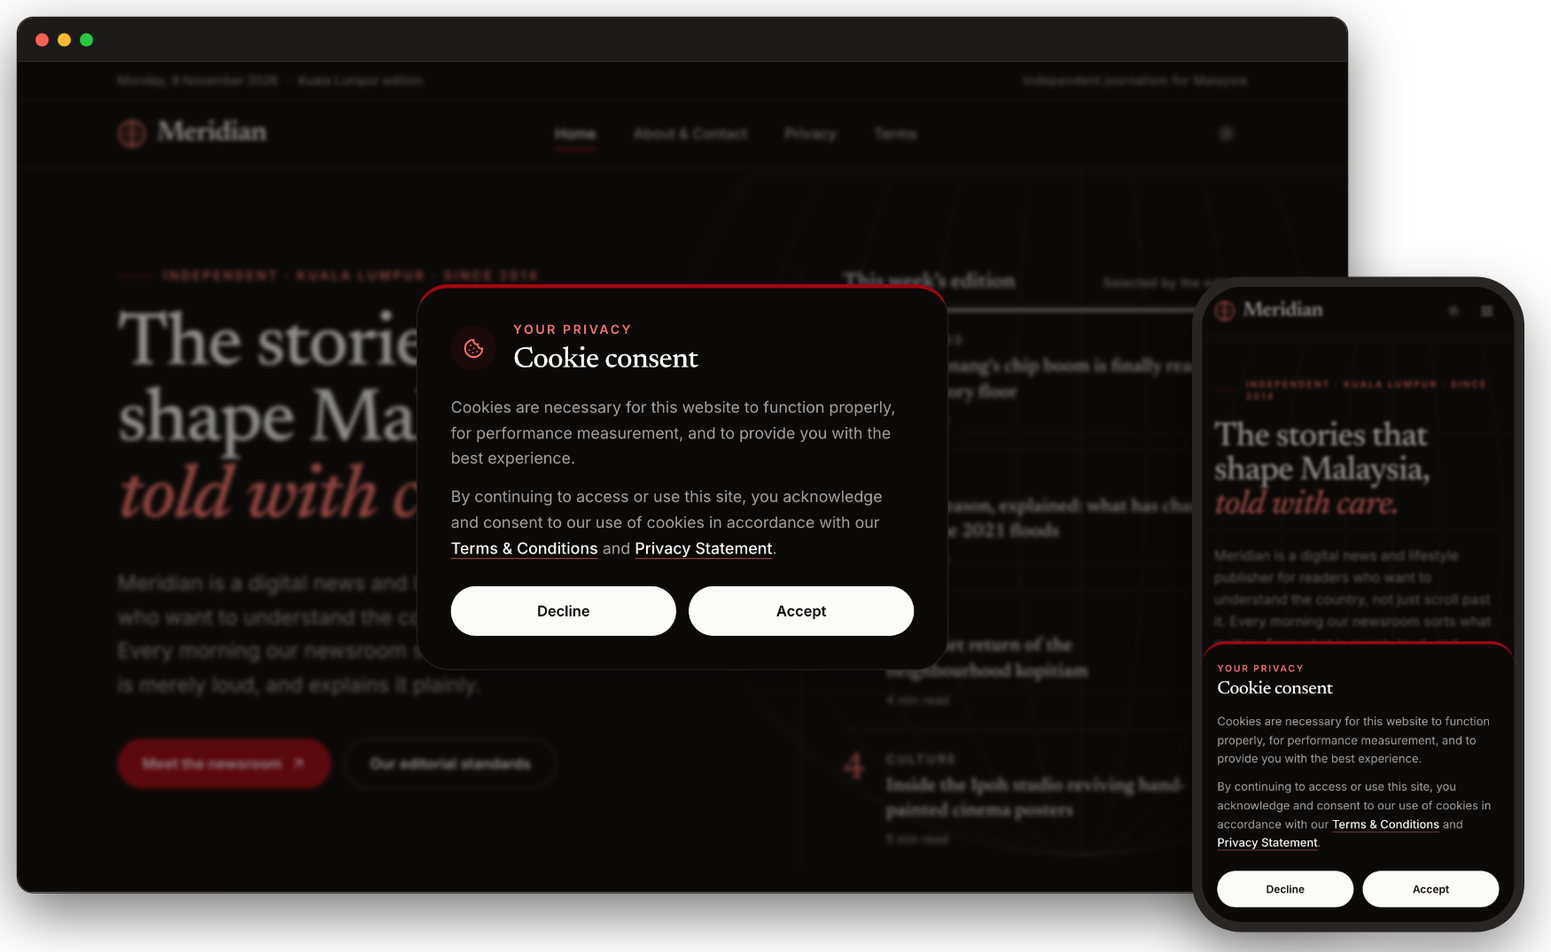
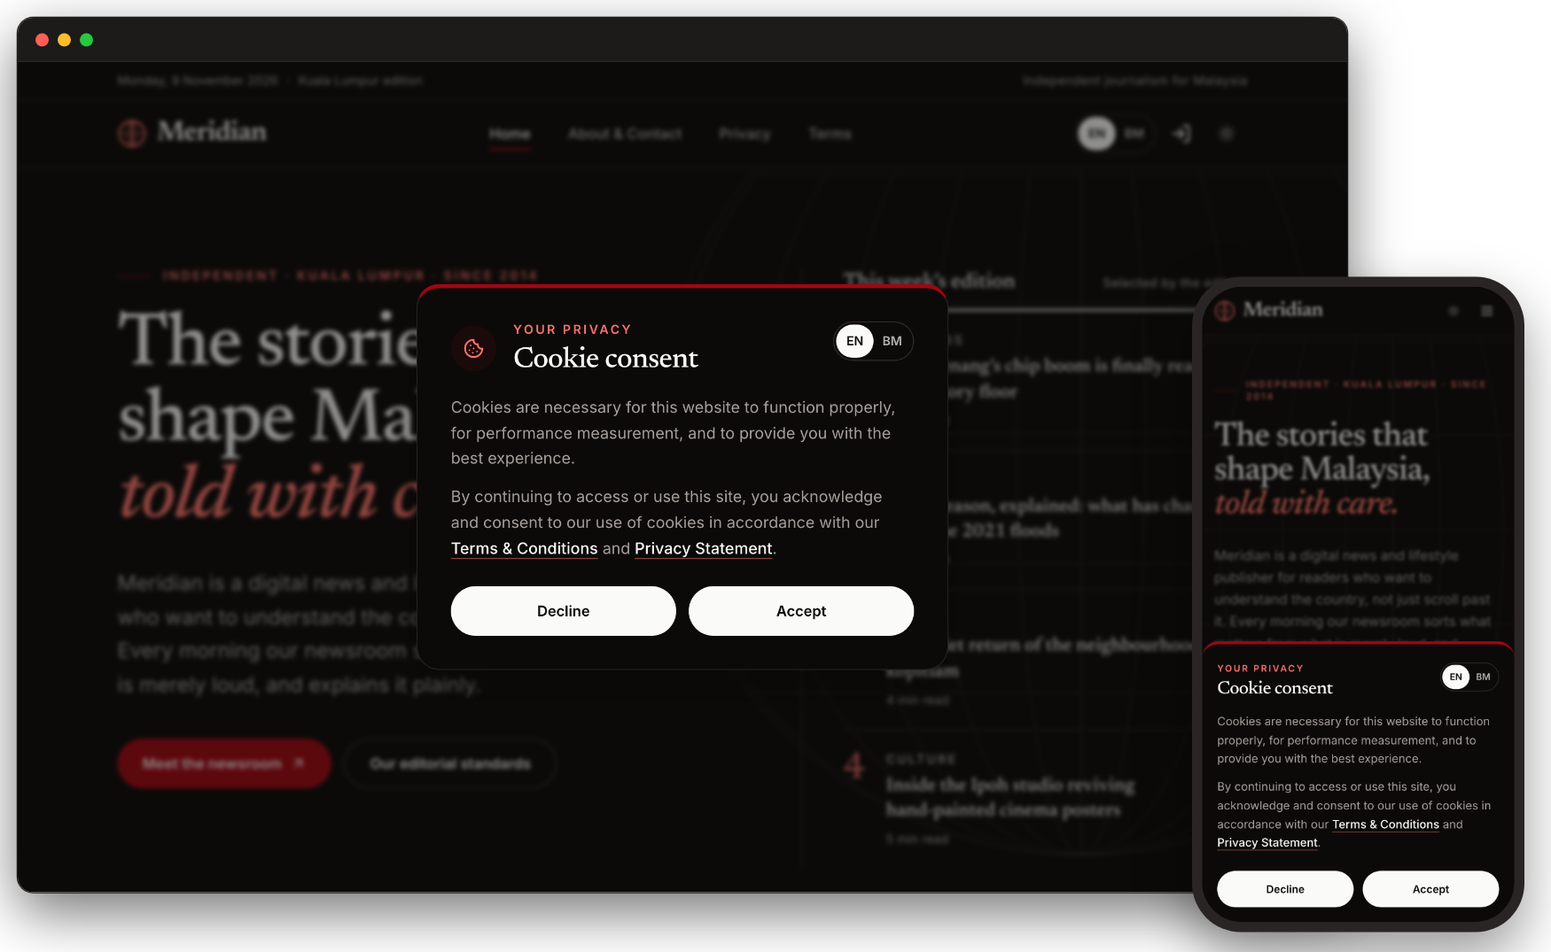
Bring the README and its pictures up to date with main
Adds the EN/BM switch, the new test counts and moved line links.
Retakes the hero, admin overview and story GIF on the current site.

diff --git a/README.md b/README.md
@@ -21,8 +21,8 @@
   <img alt="Inertia 3" src="https://img.shields.io/badge/Inertia-3-9553E9?logo=inertia&logoColor=white">
   <img alt="React 19" src="https://img.shields.io/badge/React-19-61DAFB?logo=react&logoColor=black">
   <img alt="MySQL 8.4" src="https://img.shields.io/badge/MySQL-8.4-4479A1?logo=mysql&logoColor=white">
-  <img alt="Pest: 304 tests" src="https://img.shields.io/badge/Pest-304%20tests-F28D1A">
-  <img alt="Playwright: 152 tests" src="https://img.shields.io/badge/Playwright-152%20tests-2EAD33">
+  <img alt="Pest: 358 tests" src="https://img.shields.io/badge/Pest-358%20tests-F28D1A">
+  <img alt="Playwright: 199 tests" src="https://img.shields.io/badge/Playwright-199%20tests-2EAD33">
 </p>
 
 <p align="center">
@@ -83,14 +83,14 @@ Numbers match the PDF. Every case ID links to its write-up in [`tests/cases/`](t
 
 | #           | The brief asks for                                                             | How to check it                                                                                                                                                                       | Code                                                                                                                          | Proved by                                                                                                                                                                                                                                                                               |
 | ----------- | ------------------------------------------------------------------------------ | ------------------------------------------------------------------------------------------------------------------------------------------------------------------------------------- | ----------------------------------------------------------------------------------------------------------------------------- | --------------------------------------------------------------------------------------------------------------------------------------------------------------------------------------------------------------------------------------------------------------------------------------- |
-| 1           | 4 pages                                                                        | Open `/`, `/about`, `/privacy` and `/terms`.                                                                                                                                          | [`routes/web.php`](routes/web.php#L14), [`pages/site/`](resources/js/pages/site)                                              | [CON-001](tests/cases/consent.yaml#L221)                                                                                                                                                                                                                                                |
+| 1           | 4 pages                                                                        | Open `/`, `/about`, `/privacy` and `/terms`.                                                                                                                                          | [`routes/web.php`](routes/web.php#L15), [`pages/site/`](resources/js/pages/site)                                              | [CON-001](tests/cases/consent.yaml#L221)                                                                                                                                                                                                                                                |
 | 2           | Mobile friendly                                                                | Narrow the window. Nothing scrolls sideways, and the box becomes a bottom sheet. Checked from 320px up, light and dark, and right to left.                                            | [`consent-dialog.tsx`](resources/js/components/site/consent/consent-dialog.tsx)                                               | [CON-002](tests/cases/consent.yaml#L253), [CON-003](tests/cases/consent.yaml#L287)                                                                                                                                                                                                      |
-| 3           | Consent box on first visit, page can't scroll                                  | Open any page in a private window. The server decides, so the scroll lock is in the first HTML, before any JavaScript runs.                                                           | [`app.blade.php`](resources/views/app.blade.php#L45), [`ConsentManager.php`](app/Support/Consent/ConsentManager.php#L49)      | [CON-010](tests/cases/consent.yaml#L347), [CON-020](tests/cases/consent.yaml#L444), [CON-022](tests/cases/consent.yaml#L510)                                                                                                                                                            |
-| 4           | The exact consent copy                                                         | Compare the box with the PDF, word for word.                                                                                                                                          | [`consent-dialog.tsx`](resources/js/components/site/consent/consent-dialog.tsx)                                               | [CON-011](tests/cases/consent.yaml#L372)                                                                                                                                                                                                                                                |
+| 3           | Consent box on first visit, page can't scroll                                  | Open any page in a private window. The server decides, so the scroll lock is in the first HTML, before any JavaScript runs.                                                           | [`app.blade.php`](resources/views/app.blade.php#L45), [`ConsentManager.php`](app/Support/Consent/ConsentManager.php#L50)      | [CON-010](tests/cases/consent.yaml#L347), [CON-020](tests/cases/consent.yaml#L444), [CON-022](tests/cases/consent.yaml#L510)                                                                                                                                                            |
+| 4           | The exact consent copy                                                         | Compare the box with the PDF, word for word. English is the default.                                                                                                                  | [`lang/en/site.php`](lang/en/site.php#L65)                                                                                    | [CON-011](tests/cases/consent.yaml#L372)                                                                                                                                                                                                                                                |
 | 5           | Links to Terms and Privacy                                                     | Click both links in the box.                                                                                                                                                          | [`consent-dialog.tsx`](resources/js/components/site/consent/consent-dialog.tsx)                                               | [CON-012](tests/cases/consent.yaml#L403)                                                                                                                                                                                                                                                |
-| 6           | Accept: cookie with GUID, time, version 1, lasts 1 year, saved to the database | Click Accept and read the `consent` cookie. Find its GUID in the admin.                                                                                                               | [`ConsentManager.php`](app/Support/Consent/ConsentManager.php#L69), [`schema.sql`](database/schema.sql)                       | [CON-030](tests/cases/consent.yaml#L551), [CON-031](tests/cases/consent.yaml#L605), [CON-032](tests/cases/consent.yaml#L638)                                                                                                                                                            |
-| 7           | Box stays away until the cookie expires or is gone                             | Reload and change page. Then delete the cookie and reload. It's checked on the server on every page, and against the database.                                                        | [`ConsentManager.php`](app/Support/Consent/ConsentManager.php#L170)                                                           | [CON-033](tests/cases/consent.yaml#L670), [CON-040](tests/cases/consent.yaml#L781), [CON-041](tests/cases/consent.yaml#L809), [CON-072](tests/cases/consent.yaml#L1158)                                                                                                                 |
-| 8           | Decline: cookie with the time, lasts 1 day, box returns                        | Click Decline and read `consent_declined`. Delete it and reload.                                                                                                                      | [`ConsentManager.php`](app/Support/Consent/ConsentManager.php#L107)                                                           | [CON-050](tests/cases/consent.yaml#L911), [CON-051](tests/cases/consent.yaml#L958), [CON-052](tests/cases/consent.yaml#L992)                                                                                                                                                            |
+| 6           | Accept: cookie with GUID, time, version 1, lasts 1 year, saved to the database | Click Accept and read the `consent` cookie. Find its GUID in the admin.                                                                                                               | [`ConsentManager.php`](app/Support/Consent/ConsentManager.php#L70), [`schema.sql`](database/schema.sql)                       | [CON-030](tests/cases/consent.yaml#L551), [CON-031](tests/cases/consent.yaml#L605), [CON-032](tests/cases/consent.yaml#L638)                                                                                                                                                            |
+| 7           | Box stays away until the cookie expires or is gone                             | Reload and change page. Then delete the cookie and reload. It's checked on the server on every page, and against the database.                                                        | [`ConsentManager.php`](app/Support/Consent/ConsentManager.php#L172)                                                           | [CON-033](tests/cases/consent.yaml#L670), [CON-040](tests/cases/consent.yaml#L781), [CON-041](tests/cases/consent.yaml#L809), [CON-072](tests/cases/consent.yaml#L1158)                                                                                                                 |
+| 8           | Decline: cookie with the time, lasts 1 day, box returns                        | Click Decline and read `consent_declined`. Delete it and reload.                                                                                                                      | [`ConsentManager.php`](app/Support/Consent/ConsentManager.php#L109)                                                           | [CON-050](tests/cases/consent.yaml#L911), [CON-051](tests/cases/consent.yaml#L958), [CON-052](tests/cases/consent.yaml#L992)                                                                                                                                                            |
 | Bonus       | Secured admin portal                                                           | `/admin`: overview, 30-day chart, consent health, accept rate, renewals due, device, browser and OS breakdowns, searchable table with a status filter, a page per record, CSV export. | [`Admin/ConsentController.php`](app/Http/Controllers/Admin/ConsentController.php), [`pages/admin/`](resources/js/pages/admin) | [ADM-002](tests/cases/admin.yaml#L272), [ADM-020](tests/cases/admin.yaml#L488), [ADM-030](tests/cases/admin.yaml#L654), [ADM-040](tests/cases/admin.yaml#L751), [ADM-043](tests/cases/admin.yaml#L865), [ADM-045](tests/cases/admin.yaml#L946), [ADM-049](tests/cases/admin.yaml#L1104) |
 | Stack       | PHP 7 or 8 with MySQL                                                          | Laravel 13 on PHP 8.3+, with MySQL 8.4.                                                                                                                                               | [`composer.json`](composer.json)                                                                                              | Pest runs on MySQL 8.4 in CI                                                                                                                                                                                                                                                            |
 | Deliverable | Source code and database scripts                                               | This repo. The scripts are `database/migrations`, plus `database/schema.sql` as plain SQL.                                                                                            | [`database/`](database)                                                                                                       | Pest runs on MySQL 8.4 in CI                                                                                                                                                                                                                                                            |
@@ -127,6 +127,7 @@ You don't need any of this to mark the brief. It's here so you can tell what was
 - the database check that stops forged cookies
 - HttpOnly on both cookies
 - five readable sample stories at `/stories/{slug}`, behind the same consent gate ([STR-001](tests/cases/stories.yaml#L165) to [STR-022](tests/cases/stories.yaml#L683))
+- an English and Bahasa Melayu switch on the public site and in the consent box, remembered in a cookie ([LNG-001](tests/cases/language.yaml#L99) to [LNG-031](tests/cases/language.yaml#L281))
 - a live admin overview over free Pusher or Laravel Reverb, off until it's switched on ([ADM-056](tests/cases/admin.yaml#L1373) to [ADM-067](tests/cases/admin.yaml#L1830))
 
 The admin overview, with seeded demo data:
@@ -144,10 +145,10 @@ The admin overview, with seeded demo data:
 
 Five files carry the consent logic. Read them in this order.
 
-1. [`ConsentManager.php`](app/Support/Consent/ConsentManager.php). Start here. [`state()`](app/Support/Consent/ConsentManager.php#L49) decides if the box shows, and [`verifiedAccepted()`](app/Support/Consent/ConsentManager.php#L170) checks a cookie against the database.
+1. [`ConsentManager.php`](app/Support/Consent/ConsentManager.php). Start here. [`state()`](app/Support/Consent/ConsentManager.php#L50) decides if the box shows, and [`verifiedAccepted()`](app/Support/Consent/ConsentManager.php#L172) checks a cookie against the database.
 2. [`ConsentController.php`](app/Http/Controllers/ConsentController.php). The Accept and Decline endpoints, and the cookies they set.
 3. [`app.blade.php`](resources/views/app.blade.php#L45). The scroll lock, in the first HTML.
-4. [`consent-dialog.tsx`](resources/js/components/site/consent/consent-dialog.tsx). The box, its exact copy and its two buttons.
+4. [`consent-dialog.tsx`](resources/js/components/site/consent/consent-dialog.tsx). The box and its two buttons. The exact copy is in [`lang/en/site.php`](lang/en/site.php#L65).
 5. [`config/consent.php`](config/consent.php). The version, cookie names, lifetimes and rate limit.
 
 <p align="right">(<a href="#readme-top">back to top</a>)</p>
@@ -168,18 +169,18 @@ I ran each of these on a local copy on 9 Nov 2026. To edit a cookie, open DevToo
 <details>
 <summary>10 more ways to try</summary>
 
-| Try this                                             | What happens                                        |
-| ---------------------------------------------------- | --------------------------------------------------- |
-| Scroll with the box open                             | The page stays at 0px.                              |
-| Press Tab over and over                              | Focus stays on the box's two links and two buttons. |
-| Set the date to over a year ago                      | The box comes back.                                 |
-| Change the GUID to `not-a-guid`                      | The box comes back.                                 |
-| Keep a real GUID but move `accepted_at` back an hour | The box comes back.                                 |
-| Replace the whole value with `hello`                 | The box comes back.                                 |
-| Run locally with `CONSENT_VERSION=2` and a v1 cookie | The box comes back.                                 |
-| Accept, reopen with "Cookie settings", accept again  | Same GUID, still one row.                           |
-| Open `/admin` signed out                             | You land on the login page.                         |
-| Open `/register`                                     | 404. Nobody can sign up.                            |
+| Try this                                             | What happens                                                 |
+| ---------------------------------------------------- | ------------------------------------------------------------ |
+| Scroll with the box open                             | The page stays at 0px.                                       |
+| Press Tab over and over                              | Focus stays on the box's links, language switch and buttons. |
+| Set the date to over a year ago                      | The box comes back.                                          |
+| Change the GUID to `not-a-guid`                      | The box comes back.                                          |
+| Keep a real GUID but move `accepted_at` back an hour | The box comes back.                                          |
+| Replace the whole value with `hello`                 | The box comes back.                                          |
+| Run locally with `CONSENT_VERSION=2` and a v1 cookie | The box comes back.                                          |
+| Accept, reopen with "Cookie settings", accept again  | Same GUID, still one row.                                    |
+| Open `/admin` signed out                             | You land on the login page.                                  |
+| Open `/register`                                     | 404. Nobody can sign up.                                     |
 
 </details>
 
@@ -211,6 +212,7 @@ What it doesn't do yet:
 - **Device data is three coarse fields:** device type, browser family and OS family. The server works them out on accept only. The raw user agent is never kept in the consent records. The breakdowns cover accepted visitors only, because declines carry no device data. iPadOS can report as macOS Desktop, so some iPads count as Macs.
 - **Database outage.** On a page view, if the row lookup fails, a cookie that passes the format checks is trusted, so readers aren't locked out. Accept never does this. If the database can't answer, the visitor gets an error message, no cookie is set and nothing is called saved. Decline has no such handling yet, so a failed Decline is a 500. To be honest about how far the page view fallback goes: with `SESSION_DRIVER=database`, which is what this app uses, the page returns 500 anyway because sessions fail first. I tried both drivers with the database down. The fallback and the Accept message only help on another session driver.
 - **Sessions still store IP and user agent.** Laravel's database session driver writes the raw IP and user agent to the `sessions` table for every visitor, including people who decline. That table is separate from the consent records, which don't hold either value, and the Privacy Statement says so. The fix is to move to a different session driver, such as Redis or cookies.
+- **Each record keeps the notice language,** `en` or `ms`, so you can tell which wording someone accepted. Records from before the switch are `en`, the only language then. The admin doesn't show it yet.
 - **Times are stored in UTC and shown in Malaysia time.** The admin's date filters and chart use Kuala Lumpur days, so picking 12 Oct means 12 Oct as the admin sees it.
 - **The admin can't be signed up for.** Registration is turned off. Login is rate limited to 5 tries a minute, and 2FA and passkeys are available in settings.
 - **Accept and decline are rate limited** at 30 a minute per IP (`CONSENT_THROTTLE`).
@@ -312,17 +314,17 @@ The table badge, the record page, the status filter and the CSV all use the same
 
 **Scroll lock before JavaScript.** The server works out whether the box is needed. When it is, the server puts a `consent-locked` class on `<html>` and an inline style turns off scrolling. React removes the class once the visitor chooses. While the box is open, the page behind it is `inert`, so keyboard and screen reader users can't reach it either.
 
-**The box itself.** It's an accessible alert dialog. Esc and clicking outside don't close it on a first visit. Accept and Decline look the same, so neither is pushed. On phones it's a bottom sheet. "Cookie settings" in the footer reopens it, so a visitor can change their mind.
+**The box itself.** It's an accessible alert dialog. Esc and clicking outside don't close it on a first visit. Accept and Decline look the same, so neither is pushed. On phones it's a bottom sheet. It has its own EN/BM switch, because the page behind it can't be reached. "Cookie settings" in the footer reopens it, so a visitor can change their mind.
 
 </details>
 
 <details>
 <summary><strong>Tests</strong></summary>
 
-Last full run on 9 Nov 2026: every test below passed, apart from the two real-server tests that are skipped by default.
+Last full run on 9 Nov 2026: every test below passed, apart from 7 skips: the two real-server tests, off by default, and five desktop-only checks in the phone run.
 
-- **Pest:** 304 tests (2,078 assertions) cover every consent rule, the admin portal, live updates and the stories. Time travel checks the 1-year and 1-day expiry.
-- **Playwright:** 152 tests cover consent, scroll lock, accessibility (axe), phone layout, the article pages, the live overview and the admin in desktop Chrome. The consent, phone-layout and article tests also run on an emulated Pixel 7. One test runs the whole story above: accept on the site, log in as admin, and find that cookie's GUID in the table.
+- **Pest:** 358 tests (2,952 assertions) cover every consent rule, the admin portal, live updates, the stories and the language switch. Time travel checks the 1-year and 1-day expiry.
+- **Playwright:** 199 tests cover consent, scroll lock, accessibility (axe), phone layout, the article pages, the live overview, the language switch and the admin in desktop Chrome. The consent, language, phone-layout and article tests also run on an emulated Pixel 7. One test runs the whole story above: accept on the site, log in as admin, and find that cookie's GUID in the table.
 - **Test cases:** `tests/cases/*.yaml` lists every case and which brief rule it proves.
 - **CI:** GitHub Actions runs lint, PHPStan, Pest on SQLite and MySQL 8, and the Playwright suite on every push.
 
@@ -348,7 +350,7 @@ It's off by default, so the app runs without it. It can run on free Pusher or on
 
 If a setting is missing, the page shows no badge and the app queues nothing for it.
 
-The stats, chart and recent list are live. The browser and device breakdowns refresh on page load.
+The stats and the daily, health, accept-rate and renewals charts are live. The browser and device breakdowns refresh on page load.
 
 </details>
 
@@ -357,12 +359,13 @@ The stats, chart and recent list are live. The browser and device breakdowns ref
 
 ```
 app/Support/Consent/        checking cookies against the database, withdrawals, device parsing
-app/Http/Middleware/        shares the consent state with every public page
+app/Http/Middleware/        shares the consent state and language with every public page
 app/Http/Controllers/       consent accept and decline, admin overview, table and record page
 app/Events/                 the "consents changed" broadcast
 routes/channels.php         who may listen to it
 resources/js/pages/site/    the four public pages and the story page
 resources/js/pages/admin/   admin overview, consents table and record page
+lang/                       English and Malay copy for the public site
 config/consent.php          version, cookie names, lifetimes, rate limit
 database/schema.sql         the schema as plain SQL
 tests/Feature/              Pest
